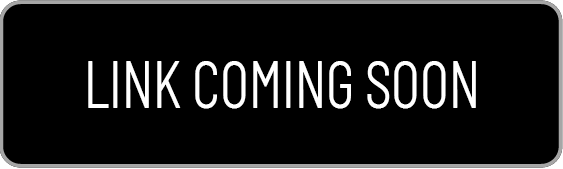
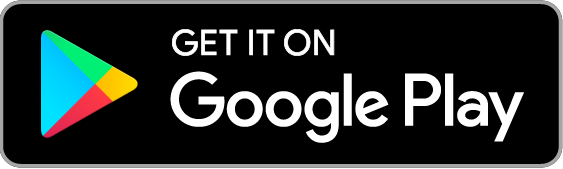
Link to App
The links to the apps were included

Changed region(s): [[0.0604, 0.1479, 0.9361, 0.858]]

diff --git a/index.html b/index.html
@@ -51,7 +51,7 @@
             </h4>
           </div>
           <div id="home-hero-button" class="wow fadeIn zoomIn">
-            <a href="#"><img class="google-button" src="/media/img/google-play-badge.png"
+            <a href="https://play.google.com/store/apps/details?id=com.quizwhat.quizwhat" target="_blank"><img class="google-button" src="/media/img/google-play-badge.png"
                 alt="Download button to Google Play Store"></a>
           </div>
         </div>

diff --git a/quizwhat/quizwhatpro.html b/quizwhat/quizwhatpro.html
@@ -75,7 +75,7 @@
 
     <!-- Link to app store - when app is ready insert the right picture! -->
     <div id="quiz-what-page-quiz-what-link-to-page-img">
-      <a href="#" type="_blank">
+      <a href="https://play.google.com/store/apps/details?id=com.quizwhatpro.quizwhatpro" target="_blank">
       <img src="/media/img/google-play-badge.png" class="google-button" alt="Download button to Google Play Store">
     </a>
     </div>

diff --git a/quizwhat/quizwhat.html b/quizwhat/quizwhat.html
@@ -75,7 +75,7 @@
 
     <!-- Link to app store - when app is ready insert the right picture! -->
     <div id="quiz-what-page-quiz-what-link-to-page-img">
-      <a href="#" type="_blank">
+      <a href="https://play.google.com/store/apps/details?id=com.quizwhat.quizwhat" target="_blank">
       <img src="/media/img/google-play-badge.png" class="google-button" alt="Download button to Google Play Store">
     </a>
     </div>
